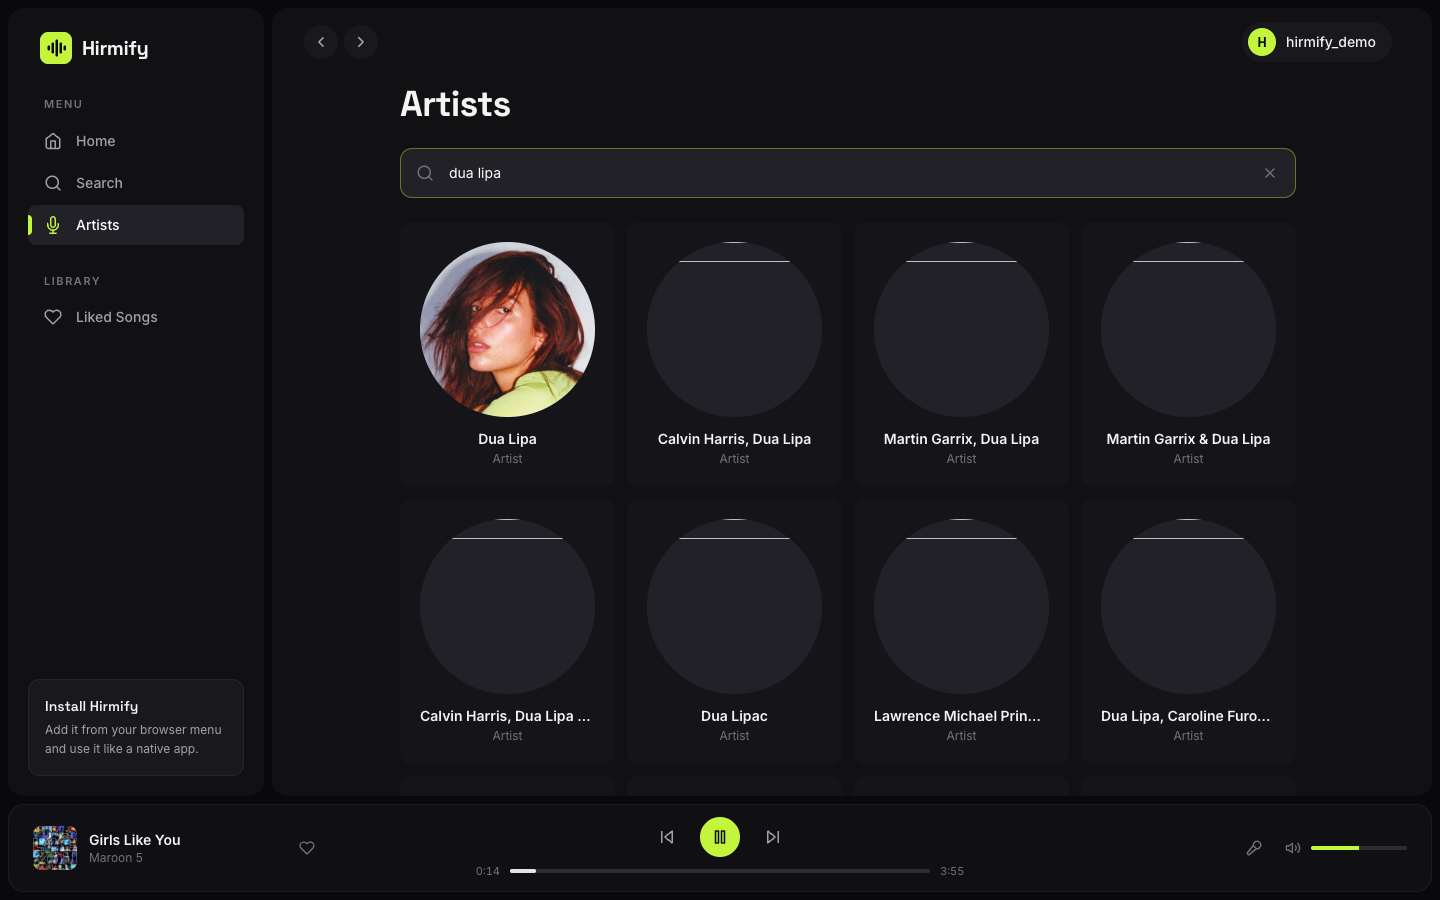
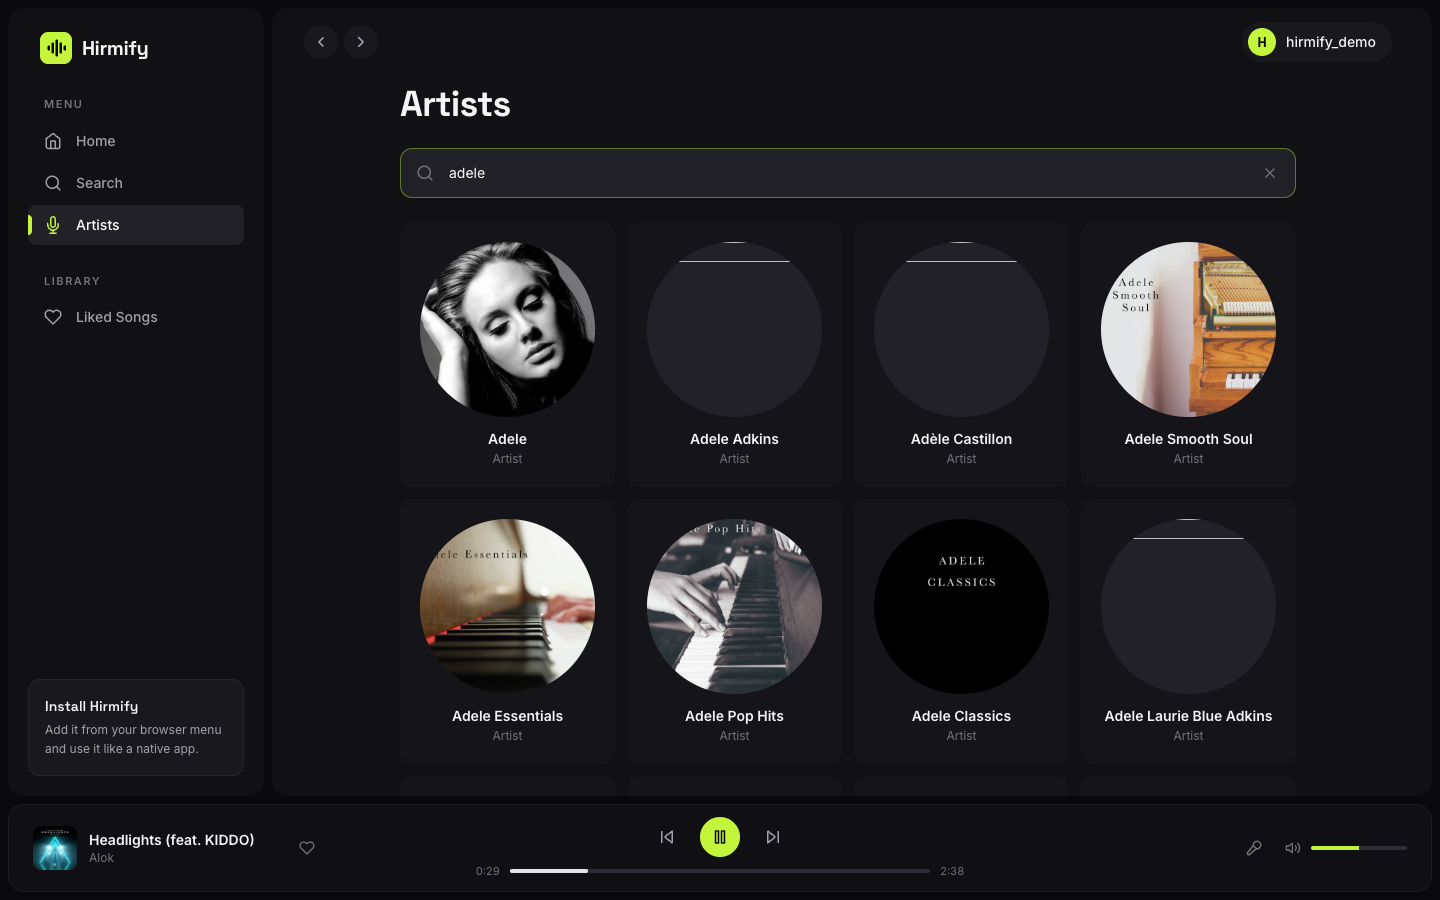
Use themed placeholder for artists without a real photo

diff --git a/src/components/ui/ArtistAvatar.jsx b/src/components/ui/ArtistAvatar.jsx
@@ -1,0 +1,30 @@
+import { useState } from 'react';
+import { FiMic } from 'react-icons/fi';
+
+/**
+ * Artist image with a reliable fallback. JioSaavn's default artist image
+ * (artist-default-*.png) is frequently blocked by the browser (ORB), so
+ * artists without a real photo get our own themed mic placeholder instead.
+ */
+export default function ArtistAvatar({ src, alt = '', className = '' }) {
+  const [failed, setFailed] = useState(false);
+  const hasRealPhoto = src && !src.includes('artist-default');
+
+  if (!hasRealPhoto || failed) {
+    return (
+      <div className={`flex items-center justify-center bg-ink-700 ${className}`}>
+        <FiMic className="h-1/3 w-1/3 text-zinc-600" />
+      </div>
+    );
+  }
+
+  return (
+    <img
+      src={src}
+      alt={alt}
+      loading="lazy"
+      onError={() => setFailed(true)}
+      className={`object-cover ${className}`}
+    />
+  );
+}

diff --git a/src/pages/SearchArtistsPage.jsx b/src/pages/SearchArtistsPage.jsx
@@ -3,6 +3,7 @@ import { useNavigate } from 'react-router-dom';
 import { musicService } from '../services/musicService';
 import { useDebounce } from '../hooks/useDebounce';
 import SearchInput from '../components/ui/SearchInput';
+import ArtistAvatar from '../components/ui/ArtistAvatar';
 import { pickImage } from '../utils/song';
 
 function ArtistCard({ artist, onClick }) {
@@ -11,12 +12,10 @@ function ArtistCard({ artist, onClick }) {
       onClick={onClick}
       className="group flex flex-col items-center gap-3 rounded-xl bg-ink-800/60 p-5 transition-all duration-200 hover:-translate-y-1 hover:bg-ink-700"
     >
-      <div className="w-full overflow-hidden rounded-full bg-ink-700">
-        <img
+      <div className="w-full overflow-hidden rounded-full">
+        <ArtistAvatar
           src={pickImage(artist, 2)}
-          alt=""
-          loading="lazy"
-          className="aspect-square w-full object-cover transition-transform duration-300 group-hover:scale-105"
+          className="aspect-square w-full transition-transform duration-300 group-hover:scale-105"
         />
       </div>
       <div className="w-full text-center">

diff --git a/src/pages/ArtistPage.jsx b/src/pages/ArtistPage.jsx
@@ -5,6 +5,7 @@ import { MdVerified } from 'react-icons/md';
 import { musicService } from '../services/musicService';
 import { usePlayer } from '../context/PlayerContext';
 import SongRow from '../components/ui/SongRow';
+import ArtistAvatar from '../components/ui/ArtistAvatar';
 import { ListSkeleton } from '../components/ui/Skeletons';
 import { formatCount, pickImage, pickStreamUrl, toTrack } from '../utils/song';
 
@@ -66,7 +67,7 @@ export default function ArtistPage() {
     <div className="pt-2">
       {/* Hero — blurred artwork backdrop */}
       <div className="relative -mx-4 mb-8 overflow-hidden px-4 pb-8 pt-6 lg:-mx-8 lg:px-8">
-        {heroImage && (
+        {heroImage && !heroImage.includes('artist-default') && (
           <>
             <img
               src={heroImage}
@@ -79,10 +80,9 @@ export default function ArtistPage() {
         )}
 
         <div className="relative flex flex-col items-center gap-6 sm:flex-row sm:items-end">
-          <img
+          <ArtistAvatar
             src={heroImage}
-            alt=""
-            className="h-44 w-44 rounded-2xl object-cover shadow-2xl shadow-black/50"
+            className="h-44 w-44 rounded-2xl shadow-2xl shadow-black/50"
           />
           <div className="pb-1 text-center sm:text-left">
             {artist.isVerified && (

diff --git a/src/components/ui/SearchInput.jsx b/src/components/ui/SearchInput.jsx
@@ -16,9 +16,9 @@ export default function SearchInput({ value, onChange, placeholder, autoFocus })
         <button
           onClick={() => onChange('')}
           aria-label="Clear search"
-          className="absolute right-3 top-1/2 -translate-y-1/2 animate-pop rounded-full p-1.5 text-zinc-500 transition-colors hover:bg-ink-600 hover:text-white"
+          className="absolute right-3 top-1/2 -translate-y-1/2 rounded-full p-1.5 text-zinc-500 transition-colors hover:bg-ink-600 hover:text-white"
         >
-          <FiX />
+          <FiX className="animate-pop" />
         </button>
       )}
     </div>

diff --git a/src/pages/SearchSongsPage.jsx b/src/pages/SearchSongsPage.jsx
@@ -7,9 +7,9 @@ import { ListSkeleton } from '../components/ui/Skeletons';
 import { toTrack } from '../utils/song';
 
 const LANGUAGE_CHIPS = [
+  { value: 'all', label: 'All' },
   { value: 'english', label: 'English' },
   { value: 'hindi', label: 'Hindi' },
-  { value: 'all', label: 'All' },
 ];
 
 // Module-level cache: survives navigation (page unmount) within the session,